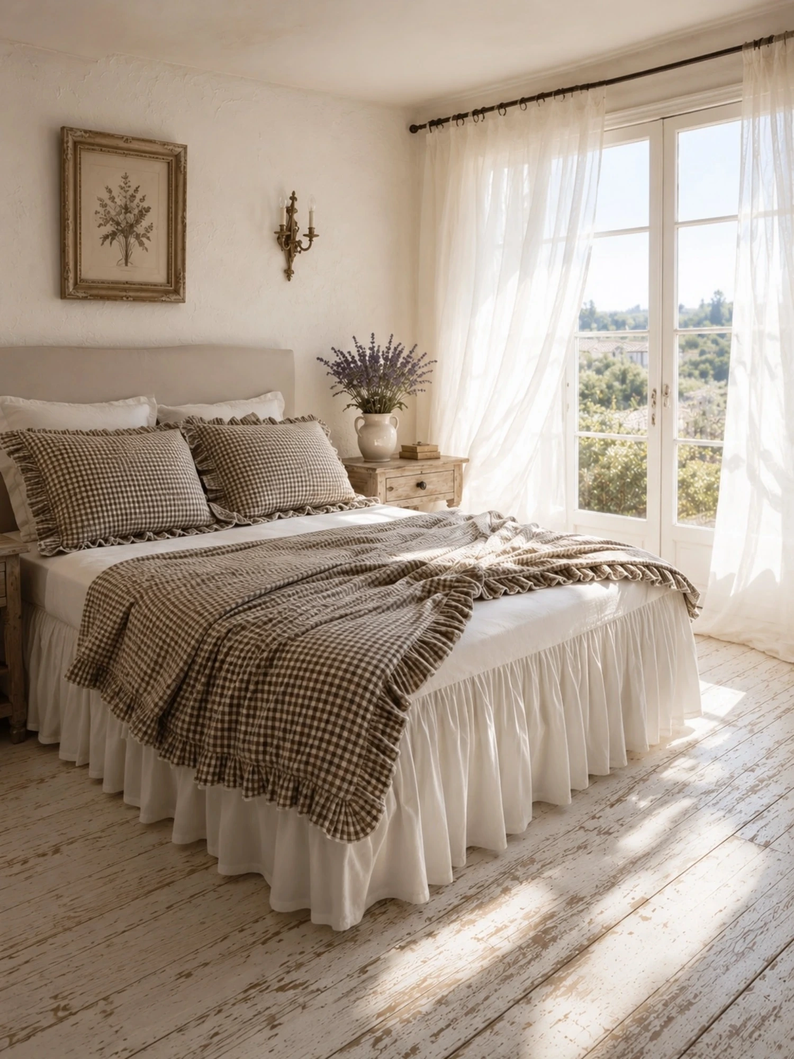
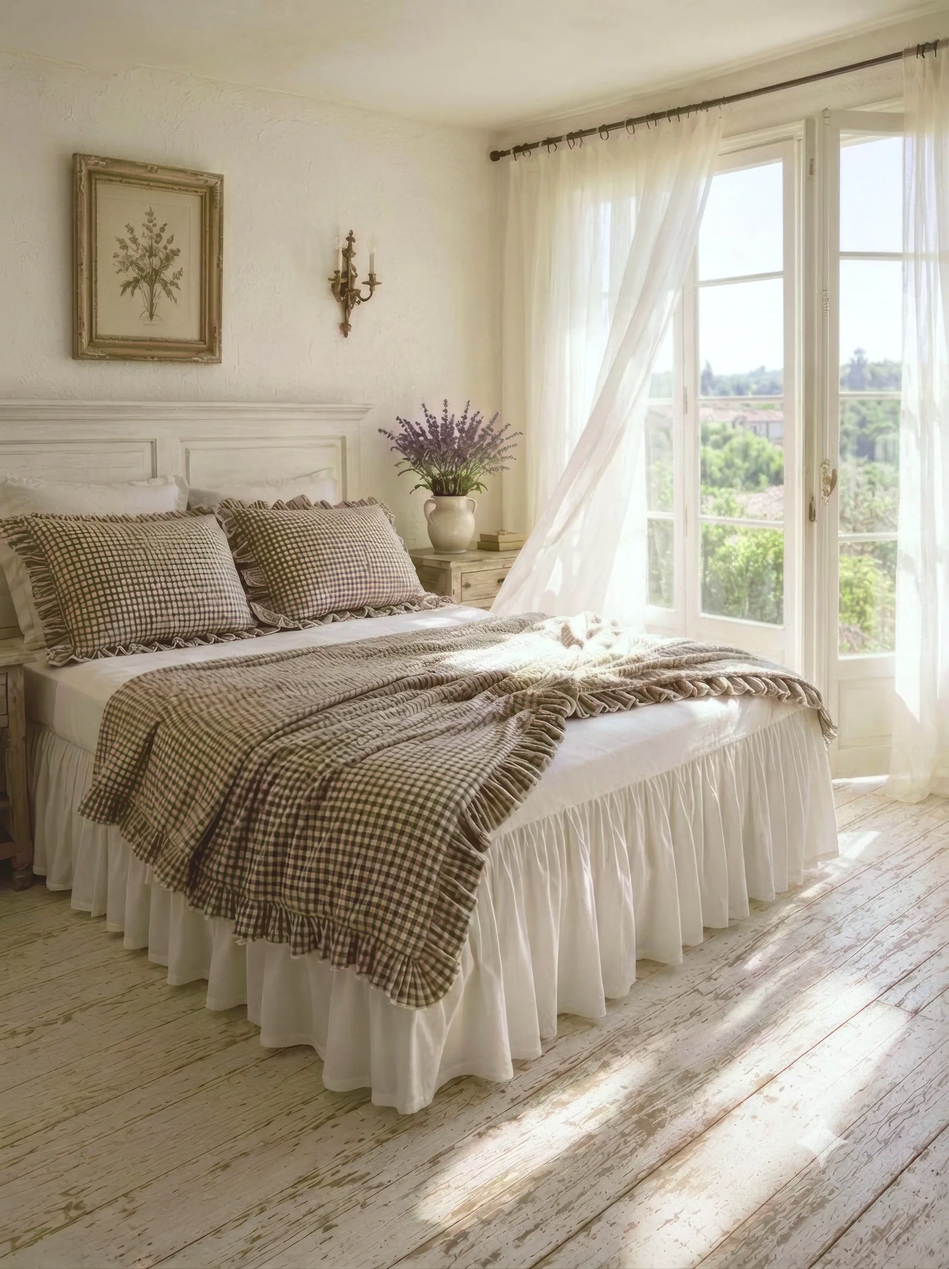
small fix in logic story and  change picture for story

diff --git a/index.html b/index.html
@@ -278,23 +278,29 @@
                     <article class="story-step" data-step="0">
                         <img class="story-step-img" src="./images/story/1.webp" alt="Макрофактура варёного хлопка крупным планом"
                              width="1500" height="2000" loading="lazy">
-                        <p class="story-num">01 — Материал</p>
-                        <h3>Варёный хлопок, который дышит</h3>
-                        <p>Мы шьём из варёного хлопка — натуральной ткани, которая с каждой стиркой становится только мягче. Она дышит, держит тепло зимой и прохладу летом, не электризуется и подходит даже чувствительной коже.</p>
+                        <div class="story-step-inner">
+                            <p class="story-num">01 — Материал</p>
+                            <h3>Варёный хлопок, который дышит</h3>
+                            <p>Мы шьём из варёного хлопка — натуральной ткани, которая с каждой стиркой становится только мягче. Она дышит, держит тепло зимой и прохладу летом, не электризуется и подходит даже чувствительной коже.</p>
+                        </div>
                     </article>
                     <article class="story-step" data-step="1">
                         <img class="story-step-img" src="./images/story/2.webp" alt="Рюша и ровный шов на постельном белье крупным планом"
                              width="1500" height="2000" loading="lazy">
-                        <p class="story-num">02 — Пошив</p>
-                        <h3>Индивидуальный пошив по вашим меркам</h3>
-                        <p>Каждый комплект отшивается под ваши размеры: аккуратные рюши, ровные швы, прочные завязки и продуманная посадка. Детали, которые видно и чувствуется руками, — то, что отличает изделие ручной работы.</p>
+                        <div class="story-step-inner">
+                            <p class="story-num">02 — Пошив</p>
+                            <h3>Индивидуальный пошив по вашим меркам</h3>
+                            <p>Каждый комплект отшивается под ваши размеры: аккуратные рюши, ровные швы, прочные завязки и продуманная посадка. Детали, которые видно и чувствуется руками, — то, что отличает изделие ручной работы.</p>
+                        </div>
                     </article>
                     <article class="story-step" data-step="2">
                         <img class="story-step-img" src="./images/story/3.webp" alt="Светлая спальня с постельным бельём Lara Lion из варёного хлопка"
                              width="1500" height="2000" loading="lazy">
-                        <p class="story-num">03 — В вашем доме</p>
-                        <h3>Уют, который остаётся с вами</h3>
-                        <p>Постель из варёного хлопка превращает спальню в место настоящего отдыха. Мягкие складки, тёплая палитра, спокойная эстетика — текстиль Lara Lion создаёт атмосферу дома, в который хочется возвращаться.</p>
+                        <div class="story-step-inner">
+                            <p class="story-num">03 — В вашем доме</p>
+                            <h3>Уют, который остаётся с вами</h3>
+                            <p>Постель из варёного хлопка превращает спальню в место настоящего отдыха. Мягкие складки, тёплая палитра, спокойная эстетика — текстиль Lara Lion создаёт атмосферу дома, в который хочется возвращаться.</p>
+                        </div>
                     </article>
                 </div>
             </div>
@@ -351,7 +357,7 @@
             <div class="about-content">
                 <!-- Левая колонка: Фото -->
                 <div class="about-image-wrapper">
-                    <img src="./images/about.jpg" alt="О нас — Lara Lion, уютная спальня с постельным бельём премиум качества" class="about-image" data-px-photo="0.08" loading="lazy">
+                    <img src="./images/about.webp" alt="О нас — Lara Lion, уютная спальня с постельным бельём премиум качества" class="about-image" data-px-photo="0.08" loading="lazy">
                 </div>
 
                 <!-- Правая колонка: Текст -->

diff --git a/css/story.css b/css/story.css
@@ -145,10 +145,18 @@
         display: none;
     }
 
-    /* Первый кадр держится дольше: добавляем прокрутку до второго шага,
-       чтобы успеть рассмотреть стартовое фото перед сменой на 2-й кадр. */
+    /* Первый кадр держится дольше: margin-bottom добавляет прокрутку до второго
+       шага В ПОТОК — IntersectionObserver срабатывает по той же геометрии, тайминг
+       смены кадров не меняется. Чтобы при этом видимые промежутки между ВСЕМИ
+       текстовыми блоками были одинаковыми, текст последующих шагов поднимаем
+       трансформацией на ту же величину (transform не влияет на поток и на observer). */
     .story-step[data-step="0"] {
         margin-bottom: 6rem;
+    }
+
+    .story-step[data-step="1"] .story-step-inner,
+    .story-step[data-step="2"] .story-step-inner {
+        transform: translateY(-6rem);
     }
 }
 
